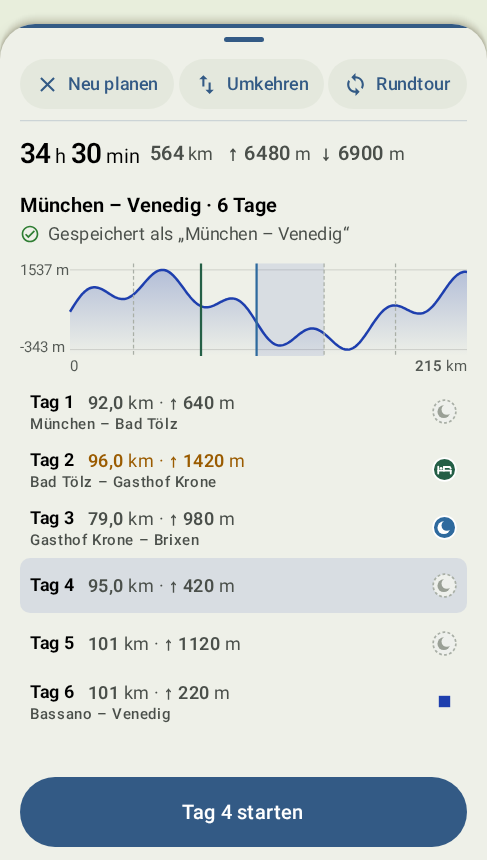
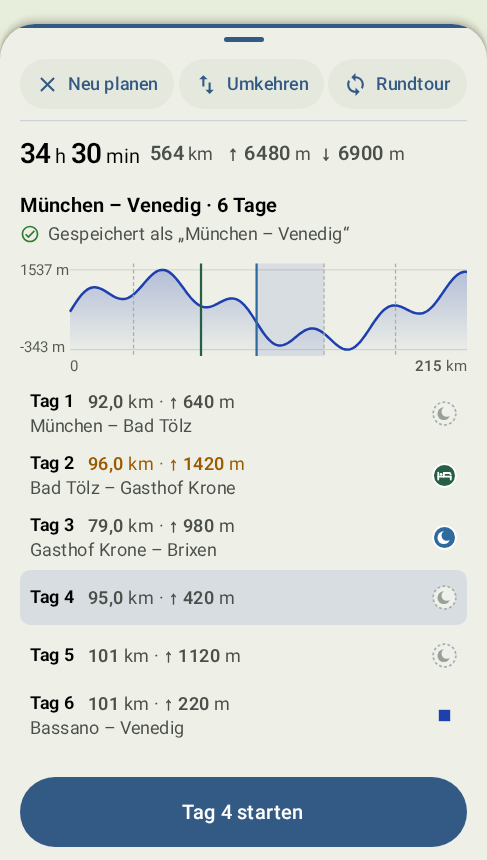
Sketch [umbau]: day rows – the grey line at the 14 sp detail size, a shorter page for the phone, no local render files

diff --git a/app/src/test/java/com/onpath/app/ui/dayrows/DayRowsSketch.kt b/app/src/test/java/com/onpath/app/ui/dayrows/DayRowsSketch.kt
@@ -88,7 +88,7 @@ private fun DayRowSketch(d: SketchDay, valuesRight: Boolean, picked: Boolean, on
             }
             // the grey line: only when both places are known
             if (d.from != null && d.to != null)
-                Text("${d.from} – ${d.to}", style = MaterialTheme.typography.labelSmall, color = MaterialTheme.colorScheme.onSurfaceVariant,
+                Text("${d.from} – ${d.to}", style = MaterialTheme.typography.bodySmall, color = MaterialTheme.colorScheme.onSurfaceVariant,
                     maxLines = 1, overflow = TextOverflow.Ellipsis)
         }
         Spacer(Modifier.width(8.dp))

diff --git a/docs/sketches/2026-11-21-day-rows/README.md b/docs/sketches/2026-11-21-day-rows/README.md
@@ -1,84 +1,52 @@
-# Tage-Liste einer Mehrtagestour – drei Bilder
+# Tage-Liste einer Mehrtagestour
 
-Beispiel: München – Venedig, 6 Tage, Tag 4 ist angetippt. Tag 4 und Tag 5 haben an einem Ende keinen Ort in der Nähe, dort steht keine graue Zeile.
+**Mein Vorschlag: A.** Die Werte stehen untereinander, so lassen sich die Tage am schnellsten vergleichen.
 
-## Im Handy
+Beispiel München – Venedig, Tag 4 ist angetippt. Bei Tag 4 und 5 liegt an einem Ende kein Ort in der Nähe, dort bleibt die graue Zeile weg.
+
+## App
 
 ### Heute
-
-Wie jetzt: Nummer, „von – nach“, Werte rechts. Fehlt ein Ort, steht der Kilometer.
-
 ![Heute](pics/app-heute.png)
 
 ### A – Werte rechts
+![A](pics/app-a.png)
 
-Tag und Länge/Höhenmeter in einer Zeile, die Werte rechts am Rand; darunter grau „von Ort – nach Ort“.
+### B – Werte neben „Tag 1“
+![B](pics/app-b.png)
 
-![A – Werte rechts](pics/app-a.png)
+## Planer
 
-### B – Werte daneben
-
-Tag und Länge/Höhenmeter direkt nebeneinander; darunter grau „von Ort – nach Ort“.
-
-![B – Werte daneben](pics/app-b.png)
-
-## Im Planer, Handy-Breite
+In A und B fehlen hier die Zeit pro Tag und die Zeile „Nacht noch offen“ / „Über der Grenze“, damit er aussieht wie die App. Ob das so bleibt, frage ich danach extra.
 
 ### Heute
-
-Wie jetzt: Nummer, „von – nach“, Werte rechts.
-
 ![Heute](pics/planer-phone-heute.png)
 
 ### A – Werte rechts
+![A](pics/planer-phone-a.png)
 
-Tag und Länge/Höhenmeter in einer Zeile, die Werte rechts am Rand; darunter grau „von Ort – nach Ort“.
+### B – Werte neben „Tag 1“
+![B](pics/planer-phone-b.png)
 
-![A – Werte rechts](pics/planer-phone-a.png)
+<details>
+<summary>Mehr: größte Schrift in der App, Planer am Computer</summary>
 
-### B – Werte daneben
-
-Tag und Länge/Höhenmeter direkt nebeneinander; darunter grau „von Ort – nach Ort“.
-
-![B – Werte daneben](pics/planer-phone-b.png)
-
-## Im Planer, Seitenleiste am Computer
-
-### Heute
-
-Wie jetzt: Nummer, „von – nach“, Werte rechts.
-
-![Heute](pics/planer-desktop-heute.png)
-
-### A – Werte rechts
-
-Tag und Länge/Höhenmeter in einer Zeile, die Werte rechts am Rand; darunter grau „von Ort – nach Ort“.
-
-![A – Werte rechts](pics/planer-desktop-a.png)
-
-### B – Werte daneben
-
-Tag und Länge/Höhenmeter direkt nebeneinander; darunter grau „von Ort – nach Ort“.
-
-![B – Werte daneben](pics/planer-desktop-b.png)
-
-## Im Handy, größte Schrift
-
-### Heute
-
-Wie jetzt: Nummer, „von – nach“, Werte rechts.
-
+### App, größte Schrift: Heute
 ![Heute](pics/app-gross-heute.png)
 
-### A – Werte rechts
+### App, größte Schrift: A
+![A](pics/app-gross-a.png)
 
-Tag und Länge/Höhenmeter in einer Zeile, die Werte rechts am Rand; darunter grau „von Ort – nach Ort“.
+### App, größte Schrift: B
+![B](pics/app-gross-b.png)
 
-![A – Werte rechts](pics/app-gross-a.png)
+### Planer am Computer: Heute
+![Heute](pics/planer-desktop-heute.png)
 
-### B – Werte daneben
+### Planer am Computer: A
+![A](pics/planer-desktop-a.png)
 
-Tag und Länge/Höhenmeter direkt nebeneinander; darunter grau „von Ort – nach Ort“.
+### Planer am Computer: B
+![B](pics/planer-desktop-b.png)
 
-![B – Werte daneben](pics/app-gross-b.png)
-
+</details>
